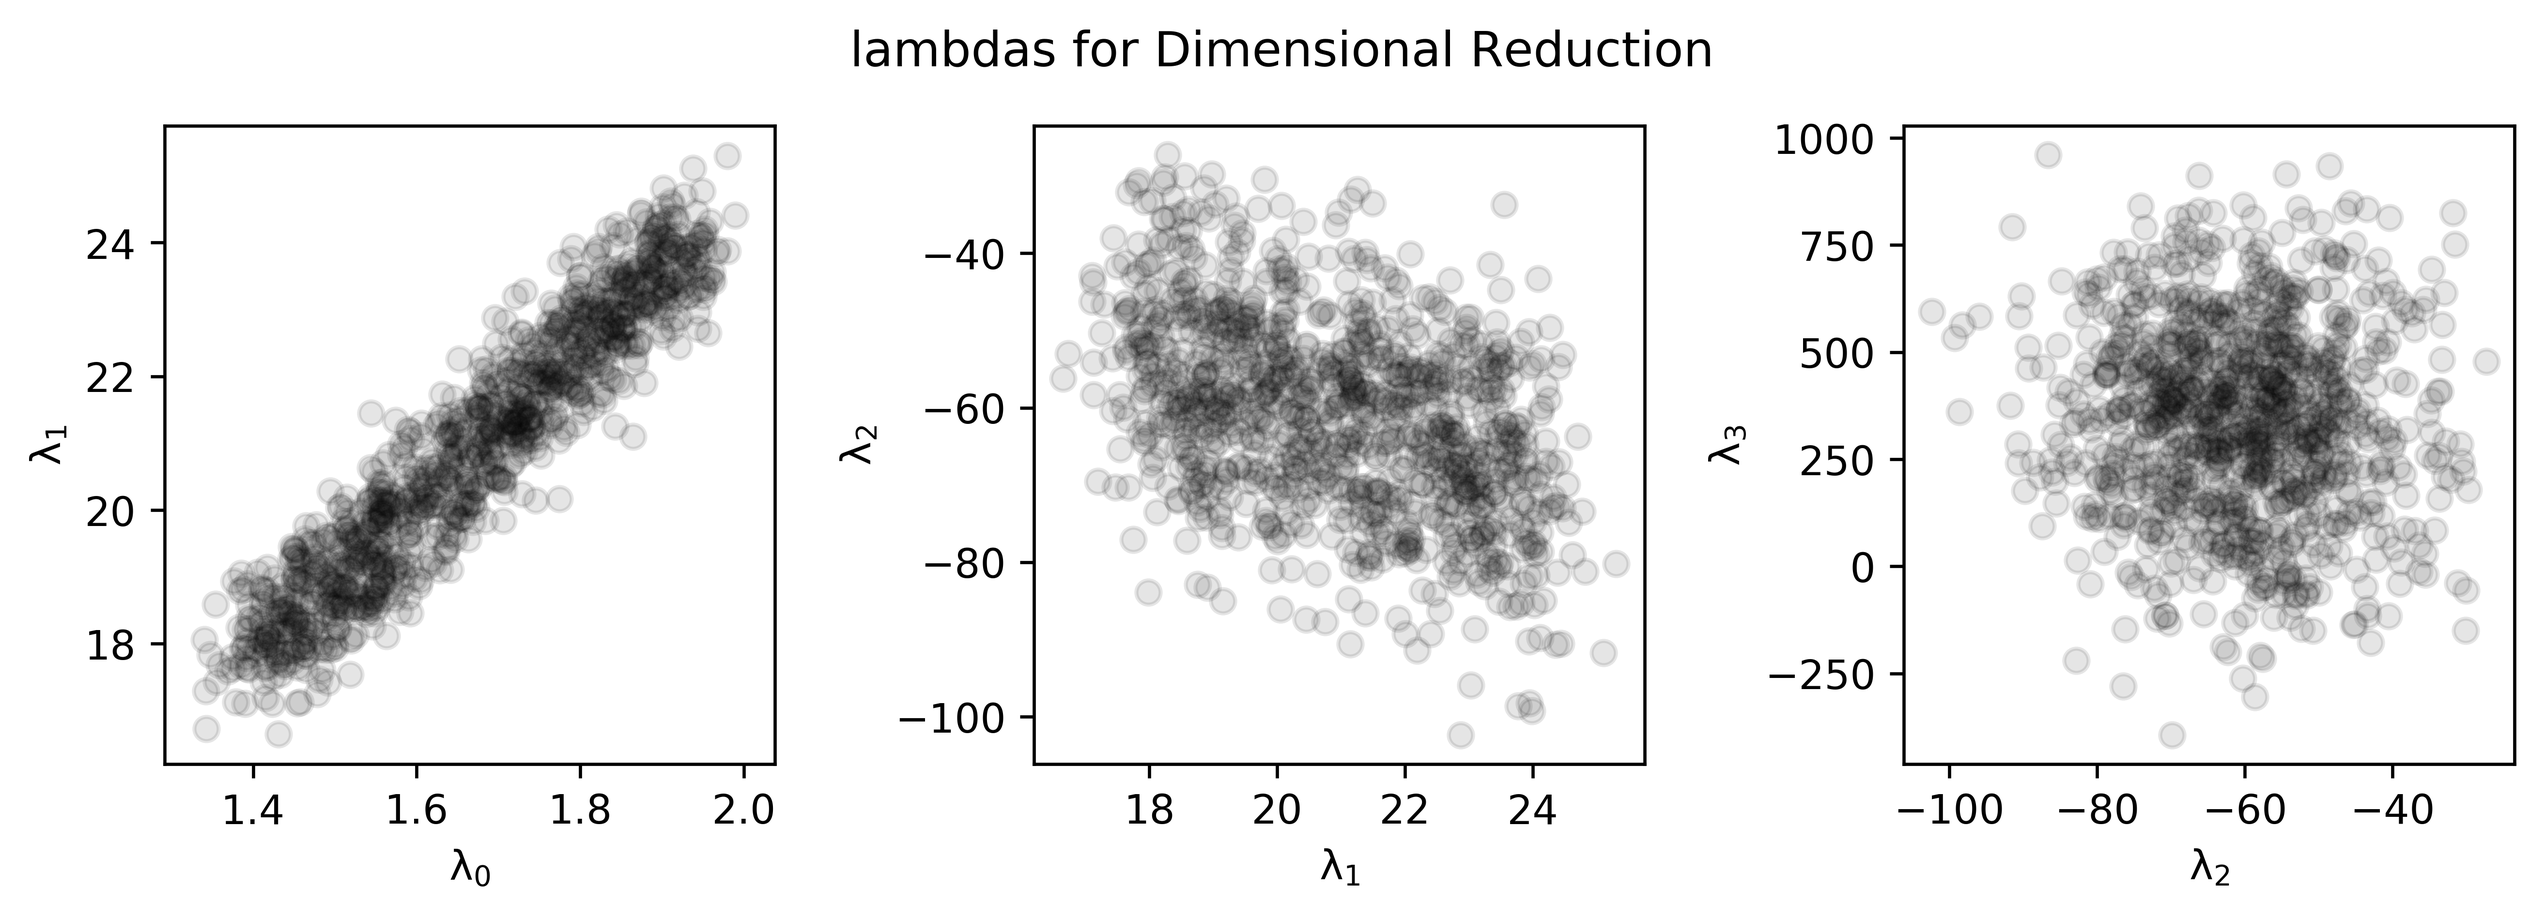
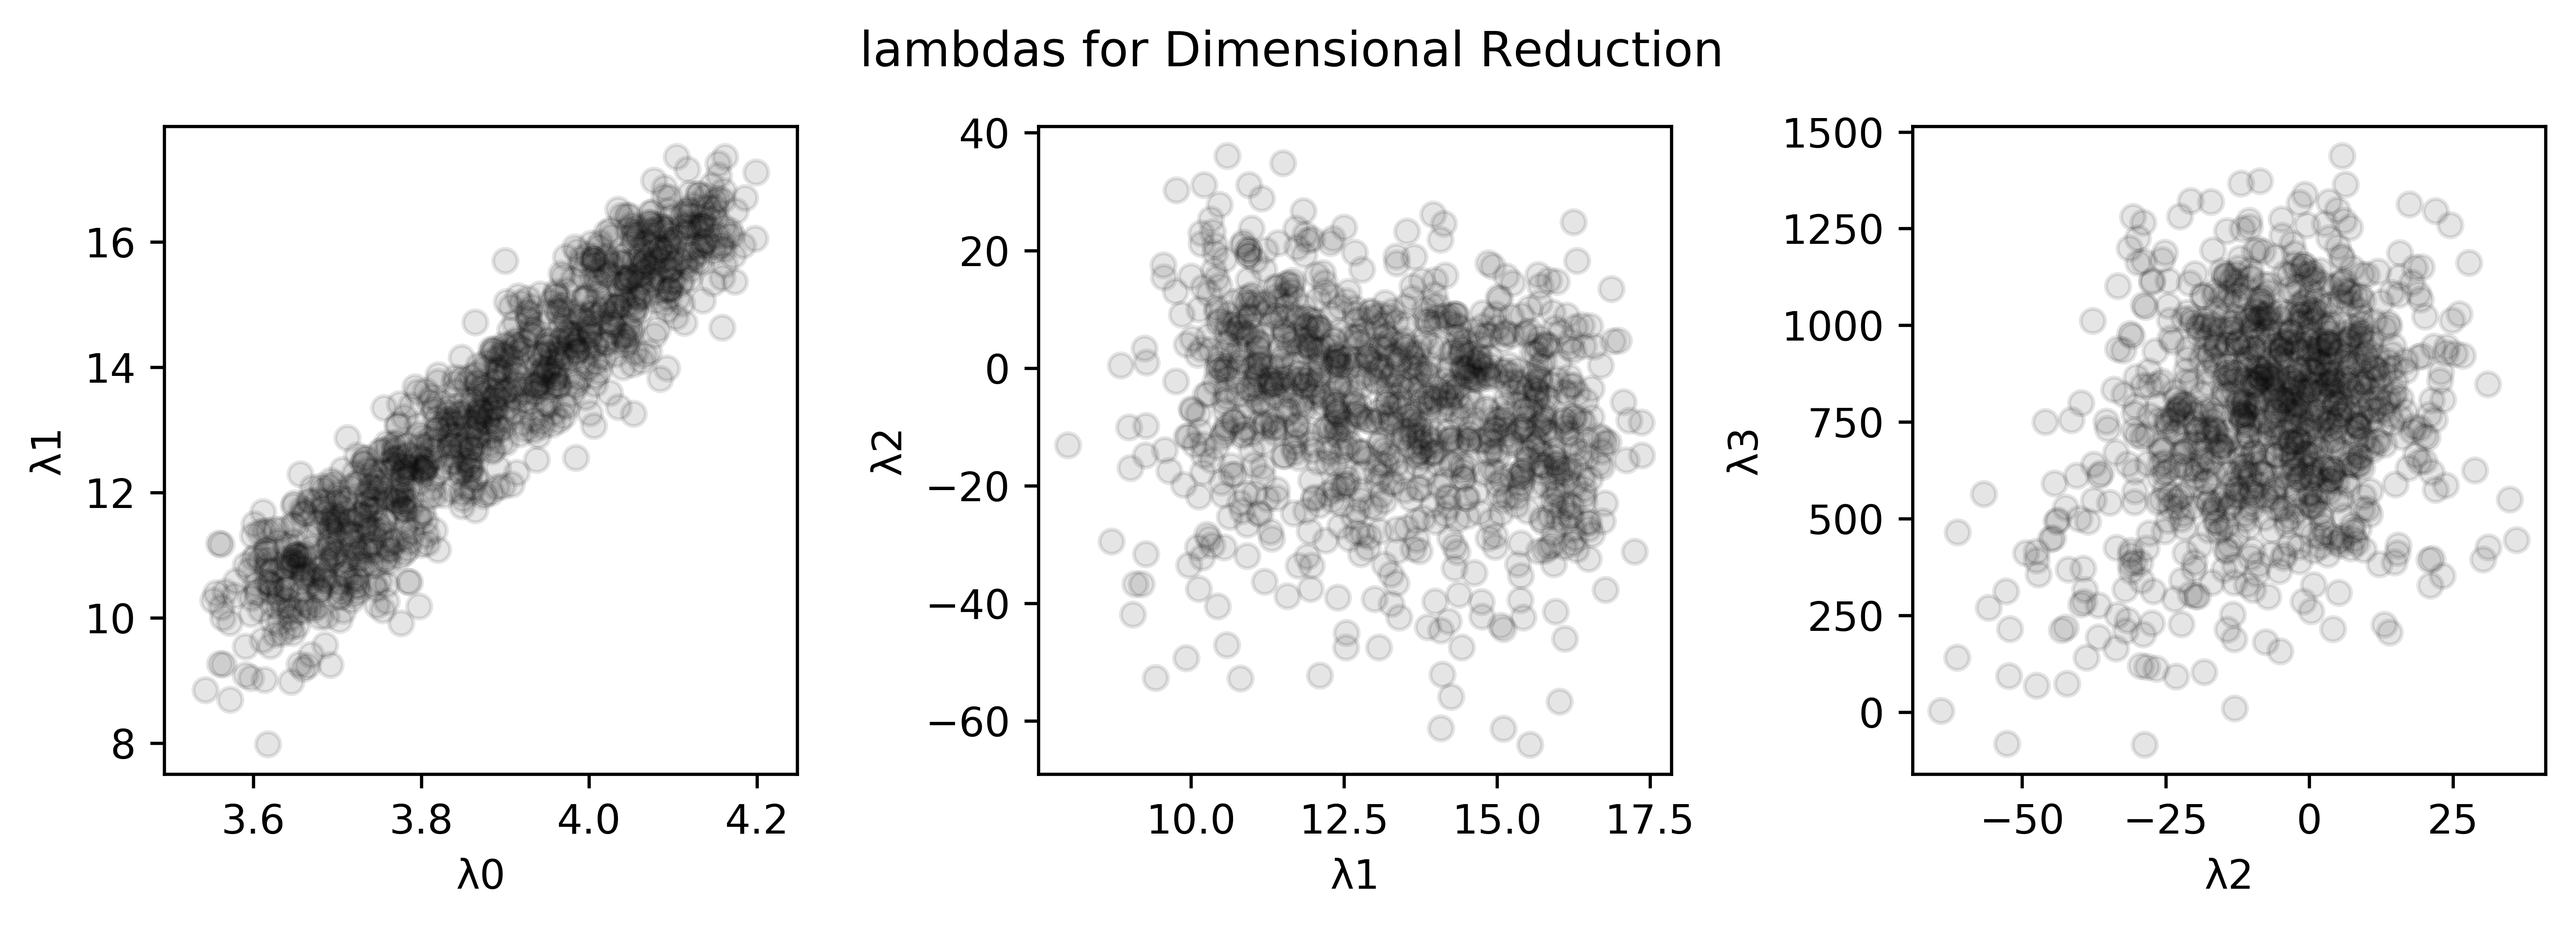
Remove extraneous lambdas example

diff --git a/docs/source/examples/geochem/lambdas_dimreduction.py b/docs/source/examples/geochem/lambdas_dimreduction.py
@@ -23,6 +23,7 @@ import matplotlib.pyplot as plt
 from pyrolite.geochem.ind import REE, get_ionic_radii
 from pyrolite.plot.spider import REE_v_radii
 from pyrolite.util.math import lambdas, lambda_poly_func, OP_constants
+
 # sphinx_gallery_thumbnail_number = 2
 
 np.random.seed(82)
@@ -79,14 +80,25 @@ ls = np.apply_along_axis(
 )
 
 ########################################################################################
+# The reduction to lambdas using the pandas interface is much simpler than using the
+# numpy-based utility functions above (:func:`pyrolite.util.math.lambdas`):
+#
+
+df = pd.DataFrame(Y, columns=data_ree)
+ls = df.pyrochem.lambda_lnREE(
+    exclude=["Ce", "Eu", "Pm"], degree=4, norm_to="Chondrite_PON"
+)
+
+########################################################################################
 
 fig, ax = plt.subplots(1, lambda_degree - 1, figsize=(9, 3))
-ax_labels = [chr(955) + "$_{}$".format(str(d)) for d in range(lambda_degree)]
+ax_labels = ls.columns
 
-for ix in range(lambda_degree - 1):
-    ax[ix].scatter(ls[:, ix], ls[:, ix + 1], alpha=0.1, c="k")
-    ax[ix].set_xlabel(ax_labels[ix])
-    ax[ix].set_ylabel(ax_labels[ix + 1])
+for ix in range(ls.columns.size - 1):
+    l1, l2 = ax_labels[ix], ax_labels[ix + 1]
+    ax[ix].scatter(ls[l1], ls[l2], alpha=0.1, c="k")
+    ax[ix].set_xlabel(l1)
+    ax[ix].set_ylabel(l2)
 
 plt.tight_layout()
 fig.suptitle("lambdas for Dimensional Reduction", y=1.05)
@@ -99,5 +111,4 @@ fig.suptitle("lambdas for Dimensional Reduction", y=1.05)
 # .. seealso::
 #
 #   Examples:
-#     `Visualising Orthogonal Polynomials <lambdavis.html>`__,
-#     `Pandas Lambda Ln(REE) Function <pandaslambdas.html>`__
+#     `Visualising Orthogonal Polynomials <lambdavis.html>`__

diff --git a/docs/source/usage/examples/_auto/geochem/lambdas_dimreduction.py b/docs/source/usage/examples/_auto/geochem/lambdas_dimreduction.py
@@ -23,6 +23,7 @@ import matplotlib.pyplot as plt
 from pyrolite.geochem.ind import REE, get_ionic_radii
 from pyrolite.plot.spider import REE_v_radii
 from pyrolite.util.math import lambdas, lambda_poly_func, OP_constants
+
 # sphinx_gallery_thumbnail_number = 2
 
 np.random.seed(82)
@@ -79,14 +80,25 @@ ls = np.apply_along_axis(
 )
 
 ########################################################################################
+# The reduction to lambdas using the pandas interface is much simpler than using the
+# numpy-based utility functions above (:func:`pyrolite.util.math.lambdas`):
+#
+
+df = pd.DataFrame(Y, columns=data_ree)
+ls = df.pyrochem.lambda_lnREE(
+    exclude=["Ce", "Eu", "Pm"], degree=4, norm_to="Chondrite_PON"
+)
+
+########################################################################################
 
 fig, ax = plt.subplots(1, lambda_degree - 1, figsize=(9, 3))
-ax_labels = [chr(955) + "$_{}$".format(str(d)) for d in range(lambda_degree)]
+ax_labels = ls.columns
 
-for ix in range(lambda_degree - 1):
-    ax[ix].scatter(ls[:, ix], ls[:, ix + 1], alpha=0.1, c="k")
-    ax[ix].set_xlabel(ax_labels[ix])
-    ax[ix].set_ylabel(ax_labels[ix + 1])
+for ix in range(ls.columns.size - 1):
+    l1, l2 = ax_labels[ix], ax_labels[ix + 1]
+    ax[ix].scatter(ls[l1], ls[l2], alpha=0.1, c="k")
+    ax[ix].set_xlabel(l1)
+    ax[ix].set_ylabel(l2)
 
 plt.tight_layout()
 fig.suptitle("lambdas for Dimensional Reduction", y=1.05)
@@ -99,5 +111,4 @@ fig.suptitle("lambdas for Dimensional Reduction", y=1.05)
 # .. seealso::
 #
 #   Examples:
-#     `Visualising Orthogonal Polynomials <lambdavis.html>`__,
-#     `Pandas Lambda Ln(REE) Function <pandaslambdas.html>`__
+#     `Visualising Orthogonal Polynomials <lambdavis.html>`__

diff --git a/docs/source/usage/examples/_auto/geochem/lambdas_orthogonal_polynomials.py b/docs/source/usage/examples/_auto/geochem/lambdas_orthogonal_polynomials.py
@@ -84,6 +84,5 @@ plt.show()
 # .. seealso::
 #
 #   Examples:
-#     `Pandas Lambda Ln(REE) Function <pandaslambdas.html>`__,
 #     `Dimensional Reduction <lambdadimreduction.html>`__,
 #     `REE Radii Plot <../plotting/REE_v_radii.html>`__

diff --git a/docs/source/examples/geochem/lambdas_dimreduction.rst b/docs/source/examples/geochem/lambdas_dimreduction.rst
@@ -31,6 +31,7 @@ resulting dimensionally reduced data.
     from pyrolite.plot.spider import REE_v_radii
     from pyrolite.util.math import lambdas, lambda_poly_func, OP_constants
 
+
     np.random.seed(82)
 
 
@@ -114,17 +115,38 @@ From this data we can calculate and plot the lambda values:
 
 
 
+The reduction to lambdas using the pandas interface is much simpler than using the
+numpy-based utility functions above (:func:`pyrolite.util.math.lambdas`):
+
+
+
+.. code-block:: default
+
+
+    df = pd.DataFrame(Y, columns=data_ree)
+    ls = df.pyrochem.lambda_lnREE(
+        exclude=["Ce", "Eu", "Pm"], degree=4, norm_to="Chondrite_PON"
+    )
+
+
+
+
+
+
+
+
 
 .. code-block:: default
 
 
     fig, ax = plt.subplots(1, lambda_degree - 1, figsize=(9, 3))
-    ax_labels = [chr(955) + "$_{}$".format(str(d)) for d in range(lambda_degree)]
+    ax_labels = ls.columns
 
-    for ix in range(lambda_degree - 1):
-        ax[ix].scatter(ls[:, ix], ls[:, ix + 1], alpha=0.1, c="k")
-        ax[ix].set_xlabel(ax_labels[ix])
-        ax[ix].set_ylabel(ax_labels[ix + 1])
+    for ix in range(ls.columns.size - 1):
+        l1, l2 = ax_labels[ix], ax_labels[ix + 1]
+        ax[ix].scatter(ls[l1], ls[l2], alpha=0.1, c="k")
+        ax[ix].set_xlabel(l1)
+        ax[ix].set_ylabel(l2)
 
     plt.tight_layout()
     fig.suptitle("lambdas for Dimensional Reduction", y=1.05)
@@ -154,13 +176,12 @@ Element Patterns in Basalts. J Petrology 57, 1463–1508.
 .. seealso::
 
   Examples:
-    `Visualising Orthogonal Polynomials <lambdavis.html>`__,
-    `Pandas Lambda Ln(REE) Function <pandaslambdas.html>`__
+    `Visualising Orthogonal Polynomials <lambdavis.html>`__
 
 
 .. rst-class:: sphx-glr-timing
 
-   **Total running time of the script:** ( 0 minutes  24.062 seconds)
+   **Total running time of the script:** ( 0 minutes  30.397 seconds)
 
 
 .. _sphx_glr_download_examples_geochem_lambdas_dimreduction.py:
